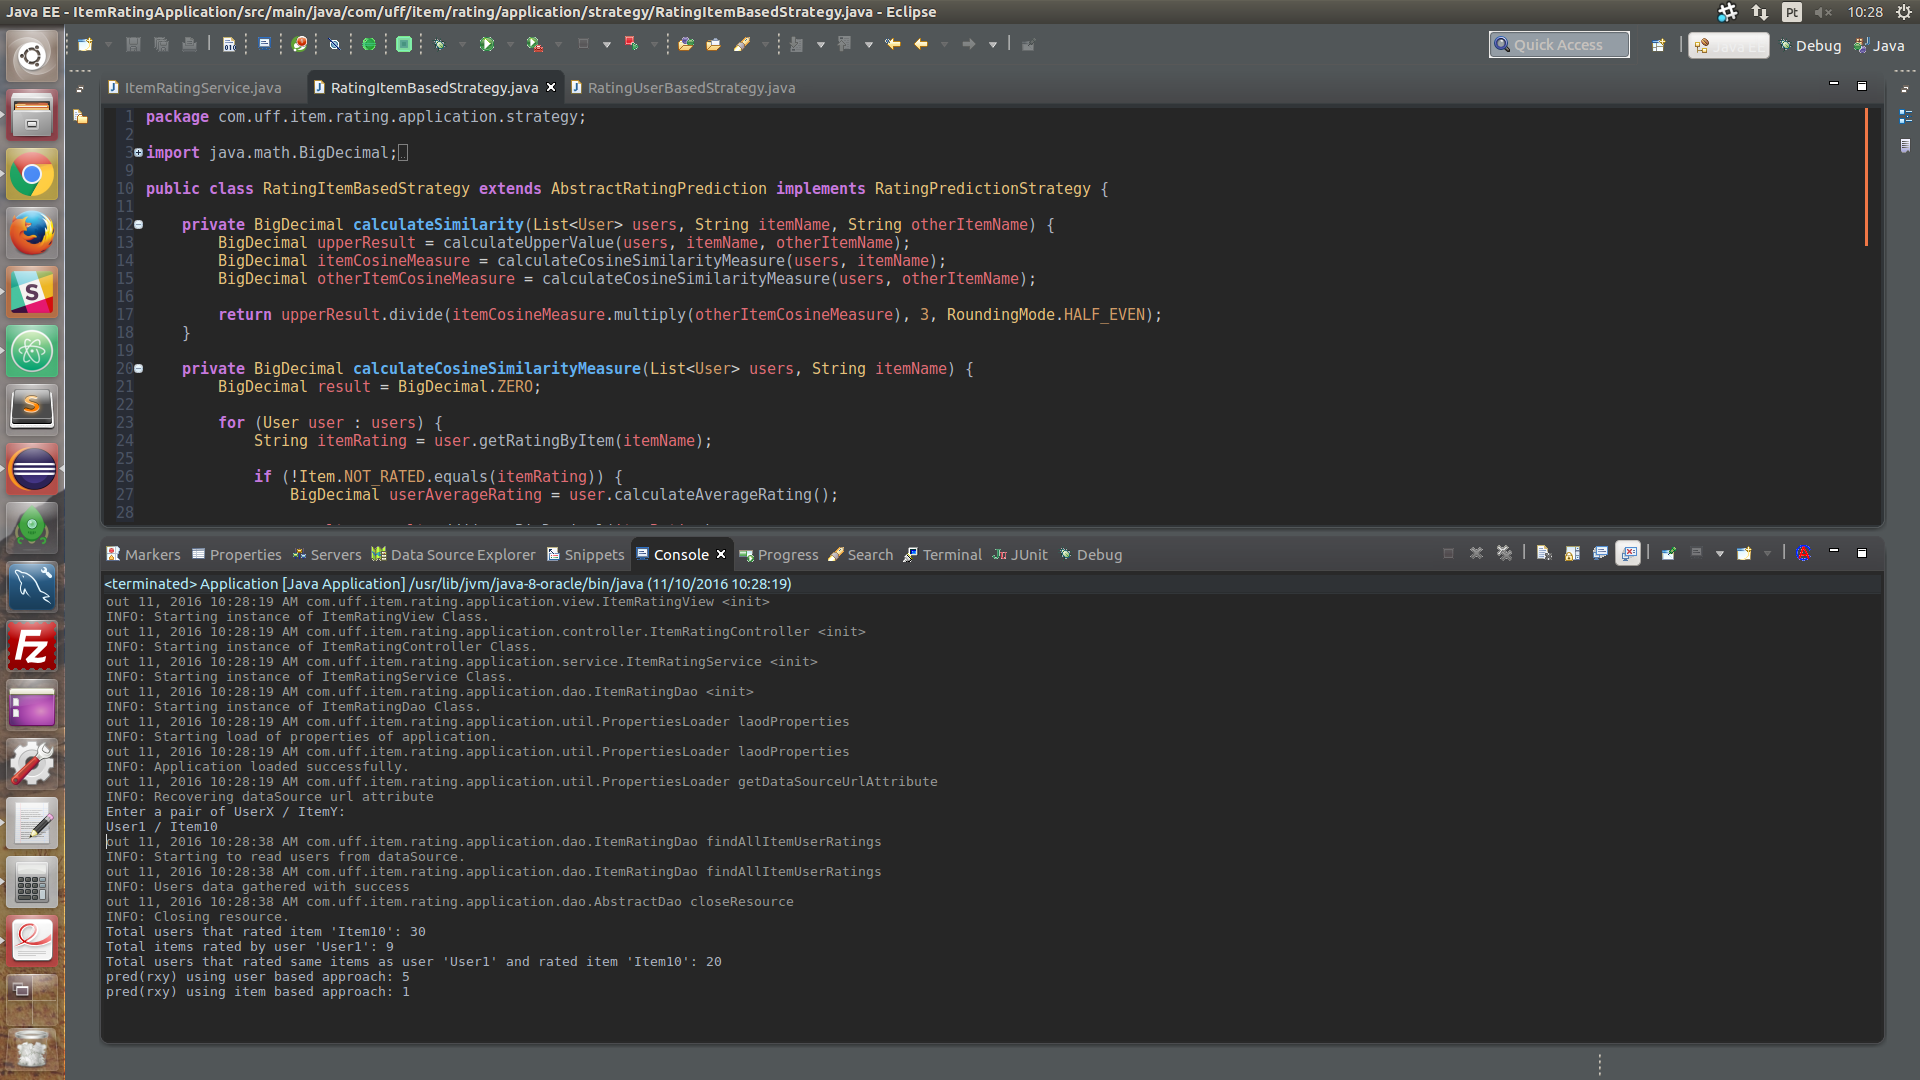
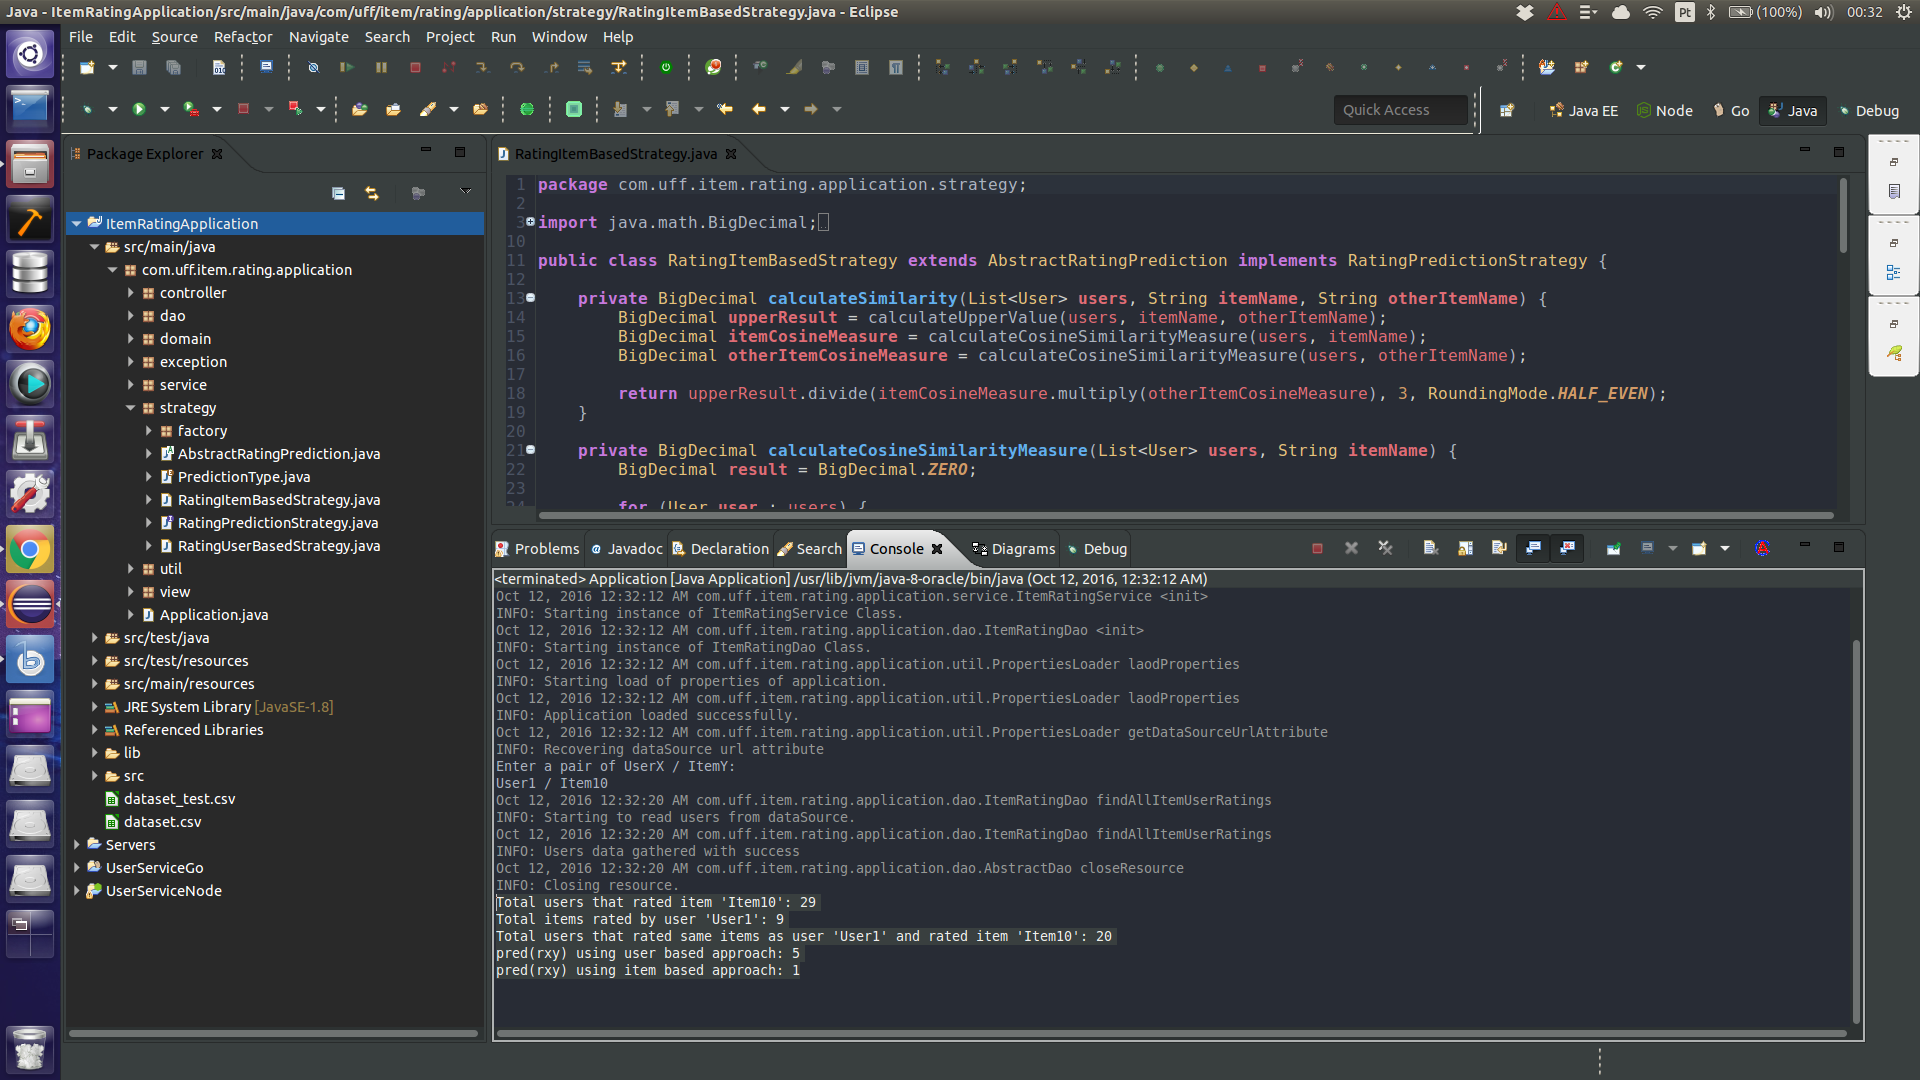
Pequenos refactors e correcao de calculo de itens avaliados por usuarios

diff --git a/ItemRatingApplication/src/main/java/com/uff/item/rating/application/dao/environment/EnvironmentFactory.java b/ItemRatingApplication/src/main/java/com/uff/item/rating/application/dao/environment/EnvironmentFactory.java
@@ -5,7 +5,7 @@ public class EnvironmentFactory {
 	public static final String TEST_SYSTEM_PARAMETER = "testEnvironment";
 	public static final String IS_TEST_VALUE = "true";
 	protected static final String PROPERTIES_PATH = "src/main/resources/application.properties";
-	protected static final String PROPERTIES_TEST_PATH = "src/test/resources/application.properties";
+	protected static final String PROPERTIES_TEST_PATH = "src/test/resources/test.properties";
 	
 	public static String getEnvironmentPath() {
 		String isTestEnvironment = System.getProperty(TEST_SYSTEM_PARAMETER);

diff --git a/ItemRatingApplication/src/main/java/com/uff/item/rating/application/service/ItemRatingService.java b/ItemRatingApplication/src/main/java/com/uff/item/rating/application/service/ItemRatingService.java
@@ -145,7 +145,7 @@ public class ItemRatingService {
 		
 		for (User user : users) {
 			for (Item item : user.getItemRatings()) {
-				if (itemName.equals(item.getName())) {
+				if (itemName.equals(item.getName()) && !RatingRange.NOT_RATED.getRating().equals(item.getRating())) {
 					total++;
 				}
 			}
